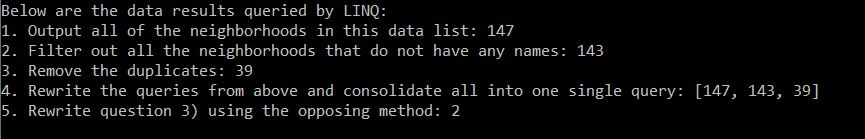
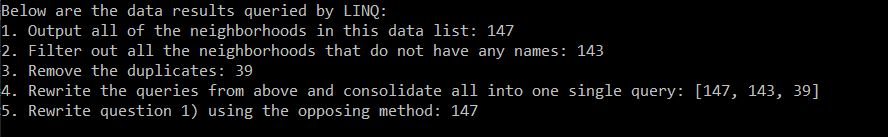
update visual capture

diff --git a/lab08-linq/lab08-linq/Program.cs b/lab08-linq/lab08-linq/Program.cs
@@ -26,7 +26,7 @@ namespace lab08_linq
             Console.WriteLine($"2. Filter out all the neighborhoods that do not have any names: {NeighborhoodsHaveNames()}");
             Console.WriteLine($"3. Remove the duplicates: {UniqueNeighborhoods()}");
             Console.WriteLine($"4. Rewrite the queries from above and consolidate all into one single query: {OneSingleQuery()}");
-            Console.WriteLine($"5. Rewrite question 3) using the opposing method: {OpposingMethod()}");
+            Console.WriteLine($"5. Rewrite question 1) using the opposing method: {OpposingMethod()}");
         }
 
         public static int AllNeighborhoods()
@@ -68,7 +68,7 @@ namespace lab08_linq
 
         public static int OpposingMethod()
         {
-            int result = DataCollection.features.Select(data => data.Properties.Neighborhood != "").Distinct().Count();
+            int result = DataCollection.features.Select(data => data.Properties.Neighborhood != "").Count();
             return result;
         }
     }
